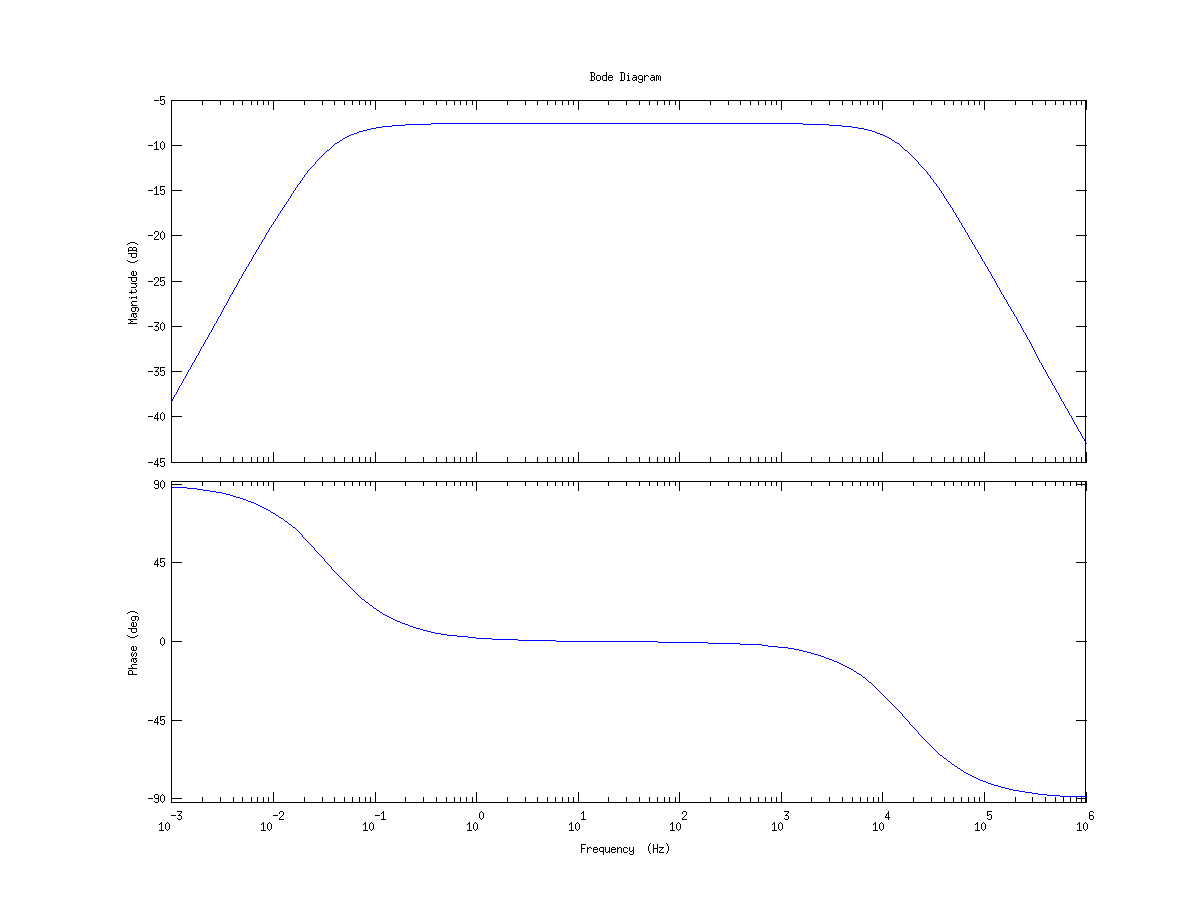
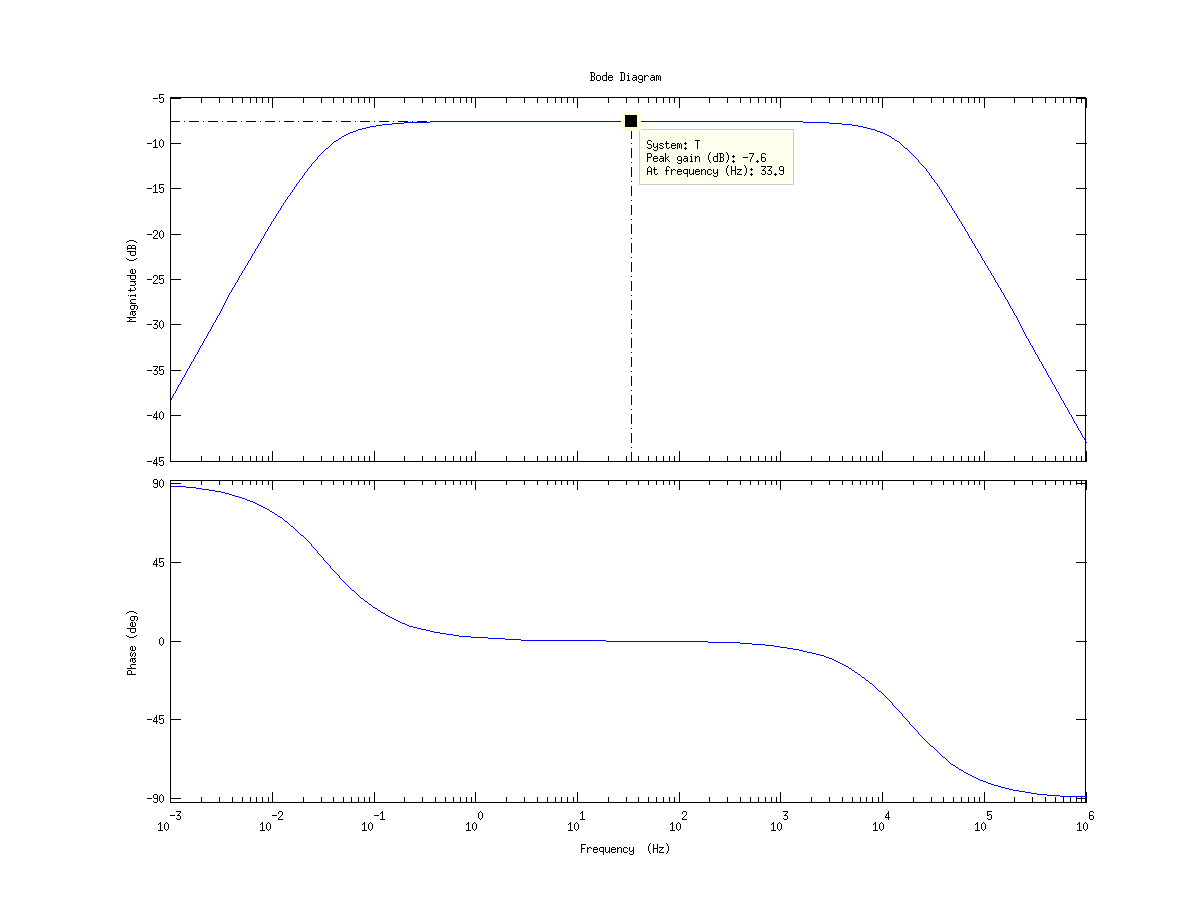
upd resp

diff --git a/doc/Instrument response/routhtable.m b/doc/Instrument response/routhtable.m
@@ -1,0 +1,164 @@
+function [rtable, nr, nl, nj] = routhtable (T)
+
+% Lagar og analyserer Routh-Hurwitz tabell.
+% Author:  Gaute Hope <eg@gaute.vetsj.com>
+% Created: 2010-04-16
+%
+% Usage: [rtable, nr, nl, nj] = routhtable (T)
+%
+%        T = Symbolsk transferfunksjon
+%
+%        rtable - Routh-Hurwitz tabell (symbolsk)
+%        nr     - Poler i RHP
+%        nl     - Poler i VHP
+%        nj     - Poler på jw-akse
+
+% hent transfer funksjon og lagre i T
+% example 6.2, s 294
+syms s e;
+
+% T = 200 / poly2sym ([1 6 11 6 200], 's'); % standard
+% T = 10 / poly2sym([1 2 3 6 5 3], 's'); % first column zero
+% T = 10 / poly2sym ([1 7 6 42 8 56], 's'); % row of zeros
+% T = 20 / poly2sym ([1 1 12 22 39 59 48 38 20], 's'); % row of zeros
+
+[~, deng] = numden(T);
+d = sym2poly (deng);
+
+h = length (d);
+w = round (h/2);
+
+% sett opp table, initiellverdi 0
+% TODO: gjer den ein breiare for å forenkle koden som bereknar
+%       rekkene > 2
+rtable = sym(zeros (h, w + 1));
+
+% fyll inn første to rekker
+for x=1:h
+  y = mod(x + 1, 2) + 1;
+  rtable (y, round (x / 2)) = d(x);
+end
+
+firstnull = false;
+rownull = false;
+nrownull = 0;
+
+% berekn gjenståande rekker
+for n=3:h
+  for x=1:w
+    a = -det ( [rtable(n-2, 1) rtable(n-2, x + 1);
+               rtable(n-1, 1) rtable(n-1, x + 1)]) / rtable (n-1, 1);
+
+    rtable (n,x) = a;
+  end
+
+  % sjekk om det er 0 i første kolonne aleine
+  if rtable(n, 1) == 0
+    nulls = 0;
+    for j=2:w-1
+      if rtable(n, j) == 0; nulls = nulls + 1; end
+    end
+
+    if nulls == (w-2)
+      % heile rekka er null
+      % erstatt i henhold til eksempel 6.4 s. 297
+      rownull = true;
+      nrownull = n;
+
+      f = poly2sym (rtable (n-1, 1:w), 's');
+      f = diff (f, 's');
+      f = sym2poly (f);
+      rtable (n,1:w) = [f 0];
+
+    elseif nulls == 0
+      rtable (n,1) = e; % erstatt med e = +- 0
+      firstnull = true;
+    end
+  end
+end
+
+rtable = simplify(rtable(1:h, 1:w));
+
+fprintf ('Routh-Hurwitz table:\n');
+disp (rtable);
+
+% analyse
+fprintf ('Analyse: ')
+
+% standard
+if ~rownull && ~firstnull
+  disp ('Standard table')
+  n = 0;
+  for y=2:h
+    if double (rtable(y-1, 1) * rtable(y, 1)) < 0; n = n +1; end
+  end
+
+  nr = n;
+  nl = (h-1) - n;
+  nj = 0;
+
+  fprintf ('Polar i RHP: %i\n', n);
+  fprintf ('Polar i VHP: %i\n', nl);
+  if n > 0; disp ('Systemet er ustabilt.');
+  else      disp ('Systemet er stabilt.');
+  end
+
+elseif rownull
+  disp ('Row of zeros');
+
+  % polar på jw aksa
+  nr = 0;
+  for y=nrownull:h
+    if double (rtable(y-1, 1) * rtable(y, 1)) < 0; nr = nr +1; end
+  end
+
+  nj = (h - nrownull +1) - (nr*2);
+  fprintf ('Polar på jw-aksa: %i\n', nj);
+
+  % sjekkar for fortegnsskift
+  for y=2:(nrownull-1)
+    if double (rtable(y-1, 1) * rtable(y, 1)) < 0; nr = nr +1; end
+  end
+
+  nl = h - nr - nj - 1;
+
+  fprintf ('Polar i RHP: %i\n', nr);
+  fprintf ('Polar i VHP: %i\n', nl);
+  if nr > 0; disp ('Systemet er ustabilt.');
+  else       disp ('Systemet er stabilt.');
+  end
+
+elseif firstnull
+  disp ('Zero in first column');
+  na = 0; % for positiv e
+  nb = 0; % for negativ e
+  for y=2:h
+    % positiv e
+    p = subs (rtable (y-1,1), e, 1);
+    c = subs (rtable (y,1), e, 1);
+    if p*c < 0; na = na +1; end
+
+    % negativ e
+    p = subs (rtable (y-1,1), e, -1);
+    c = subs (rtable (y,1), e, -1);
+    if p*c < 0; nb = nb +1; end
+  end
+
+  fprintf ('Fortengsskift (e = 0+): %i\n', na);
+  fprintf ('Fortengsskift (e = 0-): %i\n', nb);
+
+  fprintf ('Polar i RHP (e = 0+): %i\n', na);
+  fprintf ('Polar i VHP (e = 0+): %i\n\n', (h-1) - na);
+
+  fprintf ('Polar i RHP (e = 0-): %i\n', nb);
+  fprintf ('Polar i VHP (e = 0-): %i\n', (h-1) - nb);
+
+  nr = [na nb];
+  nl = [((h-1) - na) ((h-1) - nb)];
+  nj = 0;
+
+  if (na > 0) || (nb > 0);  disp ('Systemet er ustabilt!');
+  else                      disp ('Systemet er stabilt!');
+  end
+end
+

diff --git a/doc/Instrument response/Response.tex b/doc/Instrument response/Response.tex
@@ -14,7 +14,7 @@
             %includefoot, % Uncomment to put page number above margin
             marginparwidth=30.5mm,    % Length of section titles
             marginparsep=1.5mm,       % Space between titles and text
-            margin=25mm,              % 25mm margins
+            margin=15mm,              % 25mm margins
             includemp]{geometry}
 
 
@@ -98,7 +98,8 @@ figure \ref{fig:bodeplot} below.
   \begin{center}
     \includegraphics[width=400px]{bodeplot.png}
   \end{center}
-  \caption{Bode plot of transfer function}
+  \caption{Bode plot of transfer function, showing peak response at
+  $33.9$ Hz.}
   \label{fig:bodeplot}
 \end{figure}
 
@@ -108,21 +109,39 @@ script response.m (listing \ref{code:response_m}), the Bode plot in figure \ref{
 \subsection{Analysis} The transfer function is a bandpass filter with
 the suggested decoupling creating a high-pass filter with corner
 frequency at $f_{LP} = 0.0339$ Hz or a period of $29.4985$ s. The
-higher corner frequency is at $f_{HP} = 17.189 $ kHz. The corner
-frequency is well above the band of interest ($< 1$ kHz), but should
-provide sufficient damping at the Nyquist frequency of the digitizer
-which has a modulator speed of ca $f_{clk}/4 = 4\ \text{MHz} / 4 = 1\ 
-\text{Mhz}$ \cite{ads1282_ds}.
+upper corner frequency is at $f_{HP} = 17.189 $ kHz. $f_{HP}$ 
+was chosen arbitrary to be well above the band of interest ($< 1$ kHz),
+but to provide sufficient damping at the Nyquist frequency of the AD
+converter 
+which has a modulator speed of $f_{clk}/4 = 4\ \text{MHz} / 4 = 1\ 
+\text{Mhz}$ \cite{ads1282_ds} and a Nyquist presumabley\ldots at
+$f_{Nyquist} = 1 \cdot 10^{6} / 2 = 500 $ kHz.
+
+\subsubsection{Stability} System stability was ensured using the
+Routh-Hurwitz method, MATLAB code is included in listing
+\ref{code:routhtable_m}.
+
+\subsubsection{Output} The output is scaled by $-7.6\ \text{dB} =
+0.4169 \frac{V}{V}$ which is to scale the input from $\pm 6V$ to $\pm 2.5V$, $0.4169
+\approx 5 / 12 = 0.4167$, which is the input range of the ADS1282EVM
+(\cite{ads1282evm_ds} and \cite{ads1282_ds}) in bipolar mode. The
+slightly inaccurate scaling is due to available resistor values.
+
+\printbibliography
 
 \newpage
 \section{Attachments}
 \subsection{response.m}
-
 \lstset{caption={response.m, MATLAB code for calculating instrument
 response},label=code:response_m}
 \lstinputlisting{response.m}
 
+\subsection{routhtable.m}
+\lstset{caption={routhtable.m, MATLAB code for determining system
+stability},label=code:routhtable_m}
+\lstinputlisting{routhtable.m}
 
-\printbibliography
+
+
 \end{document}
 
